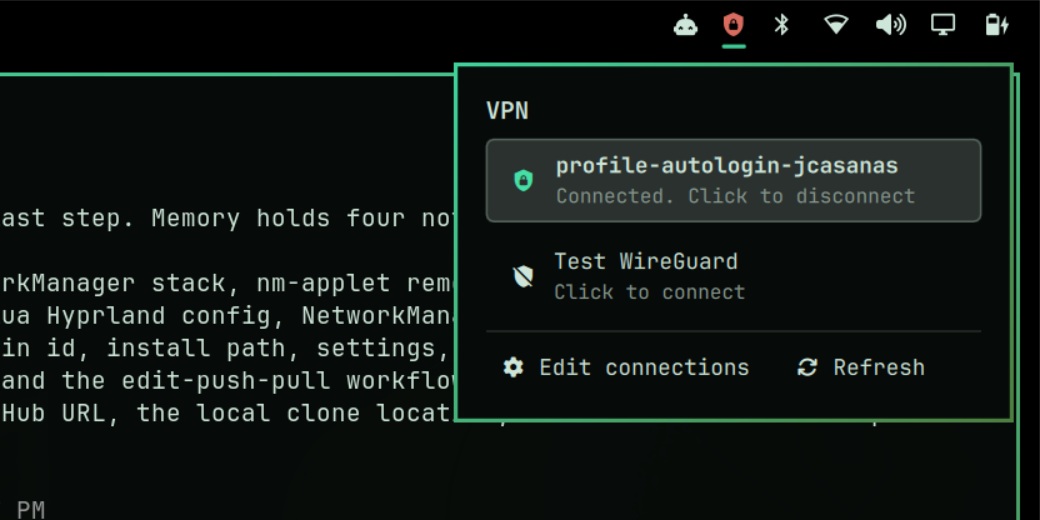
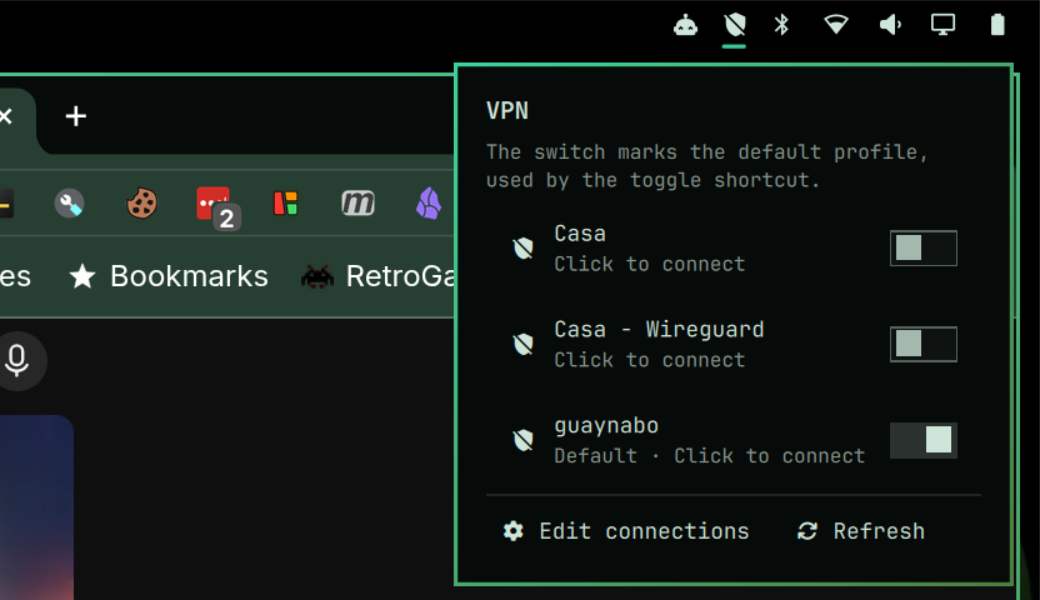
Document the default-profile switch
Claude-Session: https://claude.ai/code/session_01CrYhtitcDDtcUWtUEPWcWT

diff --git a/README.md b/README.md
@@ -11,7 +11,8 @@ managed by NetworkManager.
 
 Left-click opens a picker that lists every VPN profile NetworkManager knows
 about. Click one to connect it (switching from whatever is active), or click
-the connected one to disconnect.
+the connected one to disconnect. The switch on each row marks the default
+profile, the one Super+Shift+V and the IPC toggle connect.
 
 ![Profile picker](docs/picker.png)
 
@@ -123,8 +124,10 @@ nmcli connection show
 
 - **Connect / disconnect:** click the shield and pick a profile, or press
   Super+Shift+V to toggle without opening the picker.
-- **Several profiles:** the keybinding toggle connects the first VPN profile
-  in `nmcli`'s order unless the `profile` setting names another (see below).
+- **Several profiles:** flip the switch next to a profile to make it the
+  default. The keybinding toggle connects that one; with no default it takes
+  the first VPN profile in `nmcli`'s order. The switch writes the `profile`
+  setting (see below), so `omarchy bar set` does the same thing.
 - **Move the widget:** drag it along the bar, or run
   `omarchy bar move juancasa.vpn --section center`.
 - **Scripting:** the widget registers an IPC target, so other tools can drive
@@ -135,6 +138,7 @@ nmcli connection show
   omarchy-shell juancasa.vpn connect "Work VPN"  # connect a specific profile
   omarchy-shell juancasa.vpn disconnect
   omarchy-shell juancasa.vpn menu                # open or close the picker
+  omarchy-shell juancasa.vpn setDefault "Work VPN"  # mark the default profile ("" clears it)
   omarchy-shell juancasa.vpn refresh             # re-read the status now
   omarchy-shell juancasa.vpn editor              # open the connection editor
   ```
